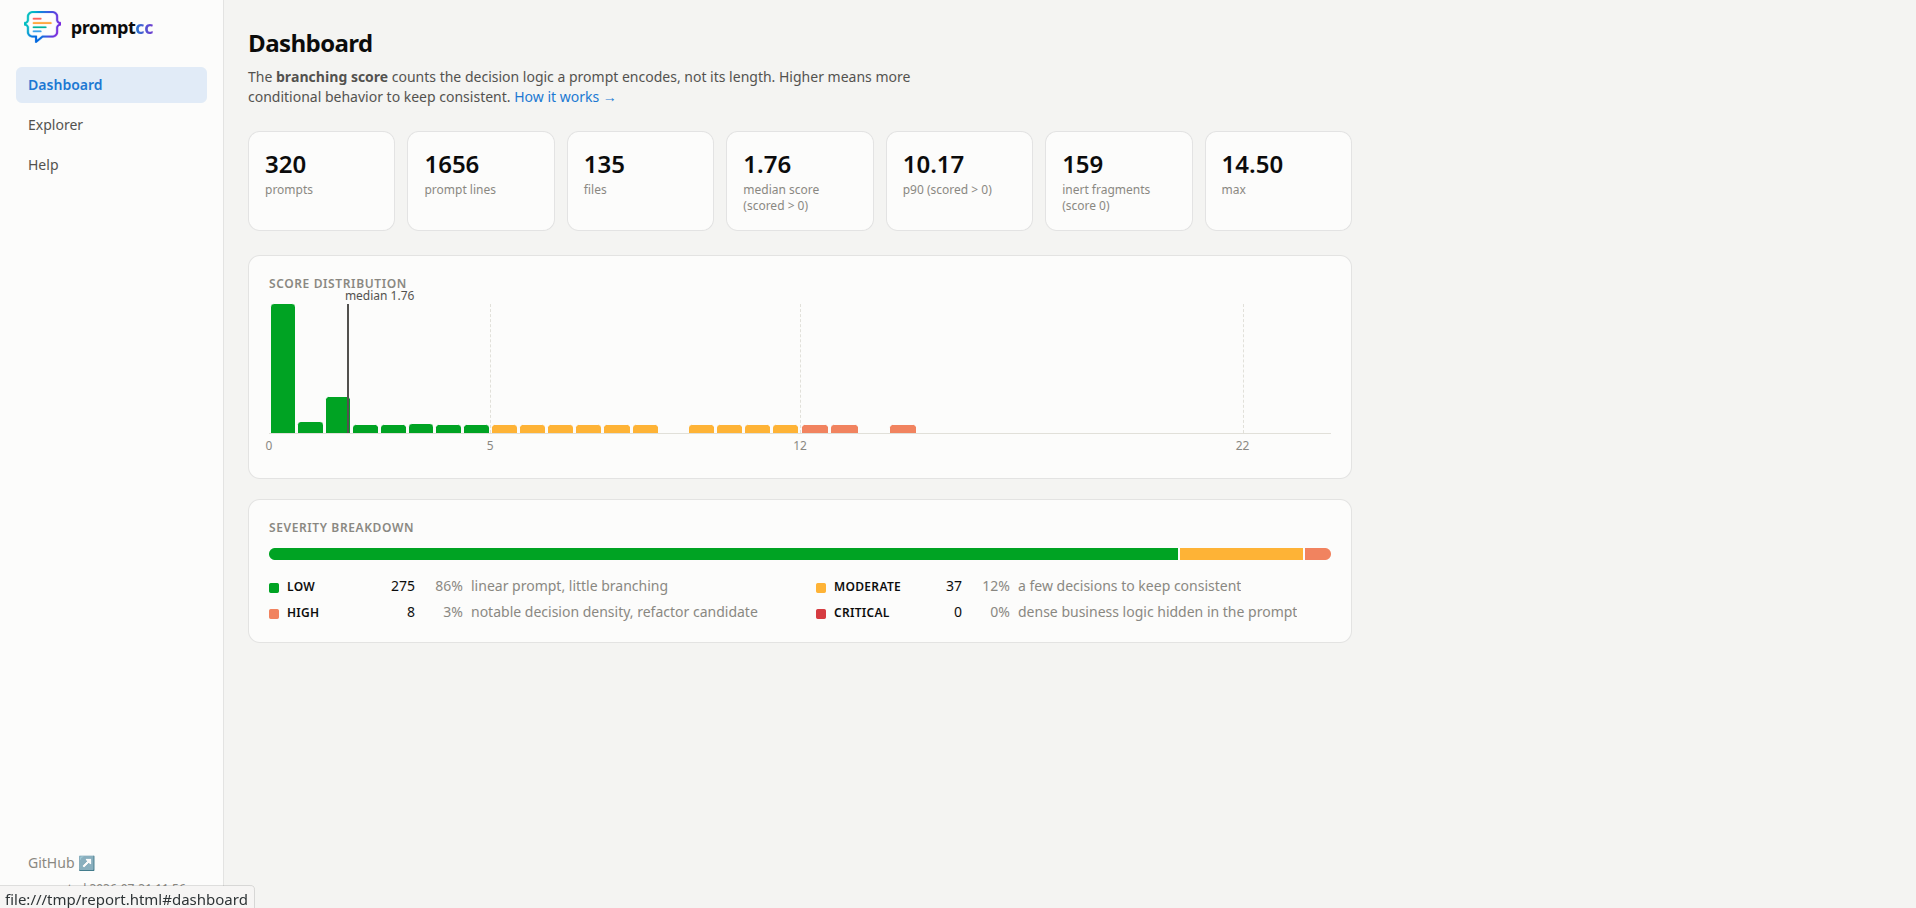
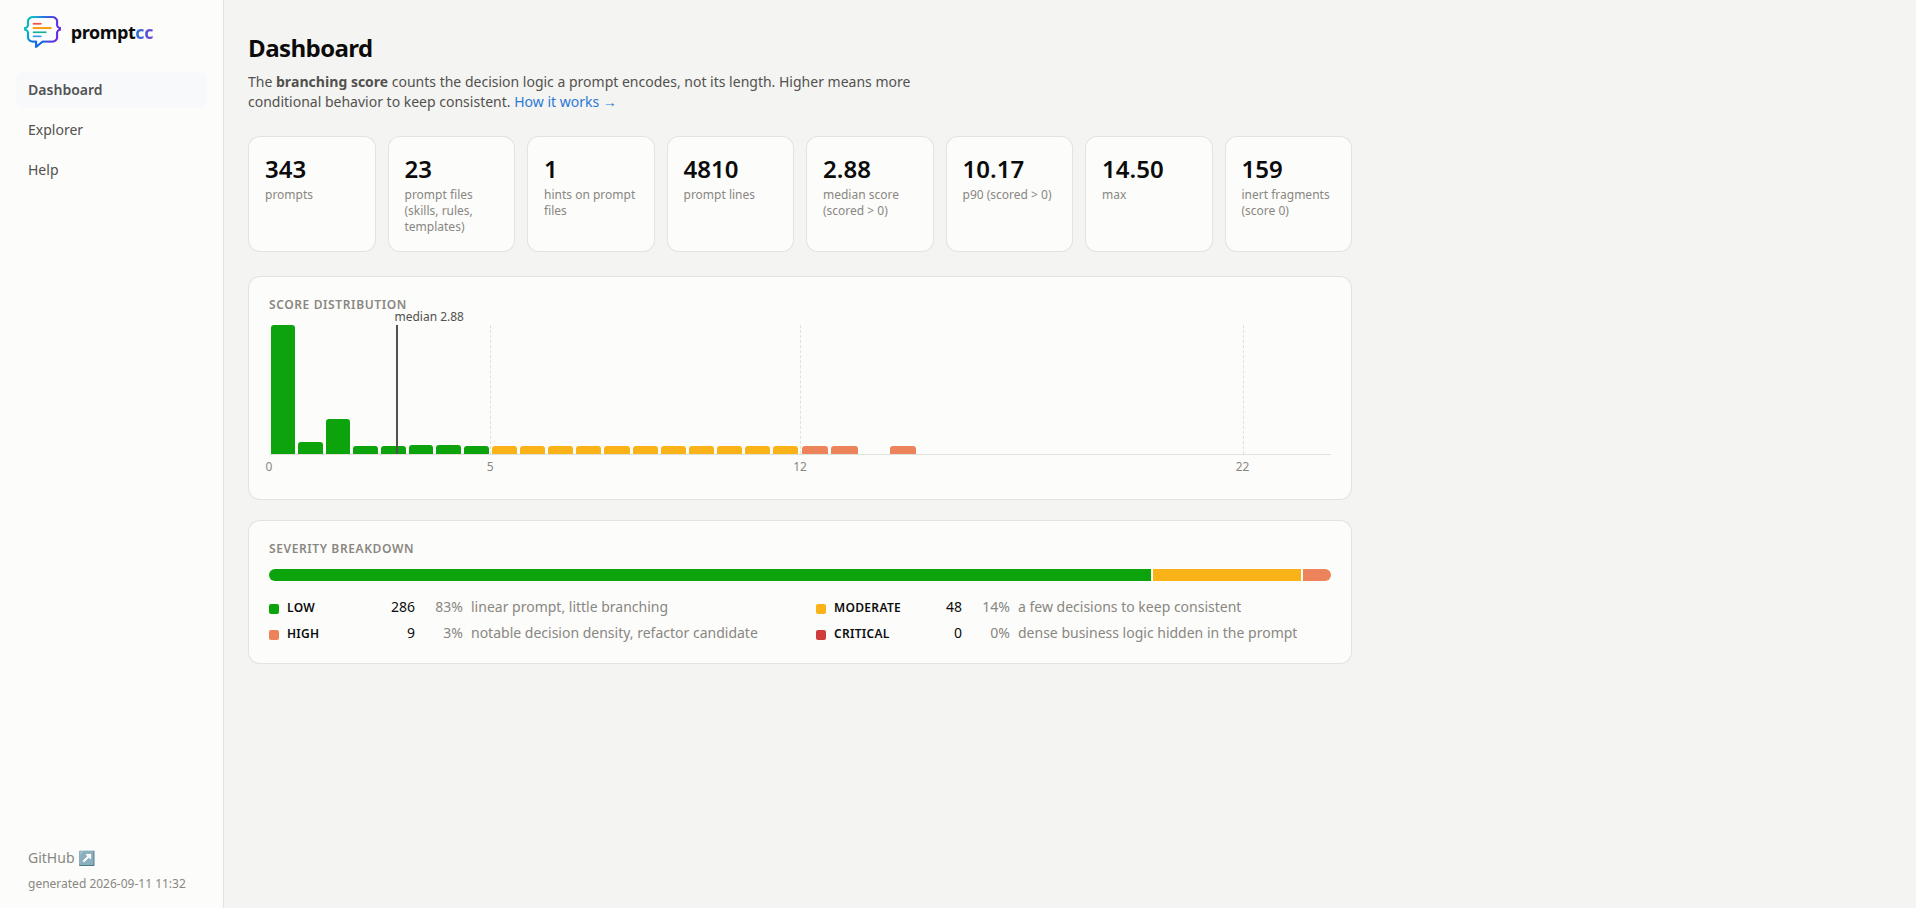
docs: rework README around agent-file audits with new screenshots

diff --git a/README.md b/README.md
@@ -11,15 +11,16 @@
   <a href="LICENSE"><img src="https://img.shields.io/badge/license-MIT-blue.svg" alt="License: MIT"></a>
   <img src="https://img.shields.io/badge/Go-1.24-00ADD8?logo=go&logoColor=white" alt="Go 1.24">
   <img src="https://img.shields.io/badge/languages-Python%20·%20TS%2FJS%20·%20PHP-6d3fd4" alt="Supported languages">
+  <img src="https://img.shields.io/badge/agent%20files-CLAUDE.md%20·%20skills%20·%20rules-6d3fd4" alt="Agent files">
   <img src="https://img.shields.io/badge/PRs-welcome-brightgreen.svg" alt="PRs welcome">
 </p>
 
 <p align="center">
-  Find the business logic hidden in your prompts, score it, and gate it in CI.
+  Your prompts, your <code>CLAUDE.md</code>, your skills: find the business logic hiding in them, score it, gate it in CI.
 </p>
 
 <p align="center">
-  <a href="https://halleck45.github.io/promptcc/#example"><b>Try it in your browser</b></a>: paste a prompt, get its score. No install, runs as WebAssembly.
+  <a href="https://halleck45.github.io/promptcc/#skill"><b>Try it in your browser</b></a>: paste a <code>CLAUDE.md</code>, a <code>SKILL.md</code> or any prompt. No install, nothing leaves your machine.
 </p>
 
 <p align="center">
@@ -28,107 +29,126 @@
 
 ---
 
-Static analysis assumes a program's behavior lives in its code. In LLM-integrated apps, half of it has moved into prompts: routing decisions, guardrails, business rules. A two-line function wrapping a fifty-line prompt shows up green in every linter while its git history screams *hotspot*.
+Linters assume a program's behavior lives in its code. Today half of it lives in prompts: routing decisions, guardrails, business rules. A two-line function wrapping a fifty-line prompt shows up green everywhere while its git history screams *hotspot*. A `CLAUDE.md` that grew to 400 lines of "if the ticket mentions X, then..." is the same thing, loaded into a model on every turn.
 
-**promptcc** measures what actually predicts prompt maintenance pain: **branching, not volume**. It counts distinct things (decision points, tool routing, injection surface, output schema depth) and reports a composite branching score, in the spirit of McCabe's cyclomatic complexity, extracted straight from your source code.
+**promptcc** measures what actually predicts maintenance pain in a prompt: **branching, not length**. It counts decision points, routing, injection surface and output schema depth, and turns them into one score, the way McCabe did for code. It reads prompts straight from your source files and from the Markdown files that drive your coding agent.
 
-> Background reading: [When code complexity lives in the prompt](https://blog.lepine.pro/en/when-code-complexity-lives-in-the-prompt/) (also available [in French](https://blog.lepine.pro/quand-la-complexite-du-code-vit-dans-le-prompt))
+> Background reading: [When code complexity lives in the prompt](https://blog.lepine.pro/en/when-code-complexity-lives-in-the-prompt/) (also [in French](https://blog.lepine.pro/quand-la-complexite-du-code-vit-dans-le-prompt))
 
-## Install
+## Get it
 
-Download a binary from the [releases page](https://github.com/halleck45/promptcc/releases), or install with Go:
+Pick whichever is closest to hand:
 
-```bash
-go install github.com/halleck45/promptcc/cmd/promptcc@latest
-```
-
-Linux and Windows release binaries are fully static (no libc dependency). Building from source needs a C compiler (the tree-sitter grammars are C code).
+| | |
+|---|---|
+| **In Claude Code** | `/plugin marketplace add halleck45/promptcc` then `/plugin install promptcc@promptcc`. Ask Claude to audit your skills; it runs promptcc and proposes the fixes. |
+| **With Node** | `npx promptcc .` (downloads the release binary on first run) |
+| **With Go** | `go install github.com/halleck45/promptcc/cmd/promptcc@latest` |
+| **Binary** | [releases page](https://github.com/halleck45/promptcc/releases), fully static on Linux and Windows |
+| **In CI** | `uses: halleck45/promptcc@main` (see [GitHub Action](#in-ci)) |
 
 ## Quick start
 
 ```bash
-# scan a codebase, print the worst offenders, and write an HTML report
-promptcc --report-html report.html ./src
-
-# gate a pull request: exit 1 if any prompt scores above 22
-promptcc --fail-over 22 ./src
+promptcc .                              # scan a repo: code prompts, CLAUDE.md, skills, agents, rules
+promptcc .claude/skills/deploy/SKILL.md # audit one skill
+promptcc --report-html report.html .    # self-contained HTML report
+promptcc --fail-over 22 .               # CI gate: fail if anything scores CRITICAL
 ```
 
-promptcc figures out what to do from what you give it: a **directory or source file** is scanned for prompts embedded in the code; **any other file, or stdin,** is analyzed as a single prompt.
+promptcc figures out what to do from what you give it. A **directory** is scanned for prompts in the code and for prompt files. A **source file** is scanned for its prompts. **Any other file, or stdin,** is analyzed as one prompt.
 
-## Usage
+## Audit your CLAUDE.md, skills and agents
 
-### Scan a codebase
+If you build with Claude Code, Cursor, Copilot, Cline, Windsurf or Codex, your prompts are Markdown files. promptcc knows where they live, reads them whole, and tells you three things the score alone cannot:
 
-Pointed at a directory or a source file, promptcc extracts prompts directly from the code (Python, TypeScript, JavaScript, PHP, parsed with tree-sitter) and analyzes each one where it lives:
+<p align="center">
+  <img src="docs/screenshot-skill.png" alt="promptcc auditing a SKILL.md: verdict by section, hotspots with advice, hints" width="820">
+</p>
 
-```bash
-promptcc ./src                        # summary + worst offenders
-promptcc --verbose ./src              # one line per prompt
-promptcc --full ./src                 # full text report per prompt
-promptcc --report-html report.html .  # self-contained HTML report
-promptcc --json ./src                 # machine-readable output
-promptcc --min-confidence high ./src  # only prompts inside known SDK calls
-promptcc --fail-over 22 ./src         # CI gate
-```
+- **Which section carries the logic, and what to do about it.** Every Markdown heading is scored on its own and the file is judged by its hottest section, not by its total: summing decisions over 700 lines would only measure length. Each HIGH section comes with a remedy that fits where it lives (move it into a skill, split it into a decision table, route first).
+- **What will silently misfire.** A skill whose description never says *when* to use it (the only trigger signal the model gets), a `SKILL.md` past the documented 500 lines, a subagent missing its `name` or `description`, a broken YAML header, the same rule copy-pasted across nested `CLAUDE.md` files.
+- **What is missing on disk.** `references/checklist.md` or `scripts/deploy.sh` mentioned in the file but absent next to it.
+
+The frontmatter is parsed, not scored: the body is what the model reads.
+
+<details>
+<summary><b>Every file promptcc picks up</b></summary>
+
+| Kind | Files |
+|---|---|
+| `rules`, loaded every session | `CLAUDE.md`, `CLAUDE.local.md`, `AGENTS.md`, `GEMINI.md`, `.cursorrules`, `.cursor/rules/*.mdc`, `.github/copilot-instructions.md`, `.github/instructions/*.instructions.md`, `.clinerules`, `.windsurfrules`, `.windsurf/rules/`, `.claude/rules/`, `.roo/rules/`, `.kiro/steering/`, `.junie/guidelines.md`, `.augment/rules/`, `.trae/rules/` |
+| `skill` | any `SKILL.md`: `.claude/skills/`, `.agents/skills/`, plugin `skills/` |
+| `agent` | `.claude/agents/**/*.md`, `.github/agents/*.agent.md`, plugin `agents/*.md` with frontmatter |
+| `command` | `.claude/commands/**/*.md`, plugin `commands/*.md` with frontmatter, `.gemini/commands/` |
+| `template` | `*.prompt`, `*.prompt.md`, anything under a `prompts/` directory, and `.md`, `.txt`, `.jinja`, `.j2`, `.hbs`... files referenced from code |
+
+Missing a convention? [Adding one is a ten-line PR.](CONTRIBUTING.md#adding-an-agent-file-convention)
+</details>
+
+## Scan a codebase
+
+Pointed at a directory, promptcc extracts prompts directly from Python, TypeScript, JavaScript and PHP (parsed with tree-sitter, so f-strings, template literals and heredocs are decoded and their interpolations counted as injection surface). Prompts that moved to their own file, `prompts/system.md` or a Jinja template opened from code, are picked up too.
 
 <p align="center">
   <img src="docs/screenshot-cli.png" alt="promptcc terminal output: worst offenders" width="820">
 </p>
 
-### Analyze a single prompt
+```bash
+promptcc --verbose ./src              # one line per prompt, with hints
+promptcc --full ./src                 # full text report per prompt
+promptcc --json ./src                 # machine-readable output
+promptcc --min-confidence high ./src  # only prompts inside known SDK calls
+```
 
-No install needed for this one: the [web playground](https://halleck45.github.io/promptcc/) runs the same analyzer as WebAssembly, entirely client-side. Or from the CLI:
+Every string carries a **confidence**: `high` when passed to a known LLM SDK (Anthropic, OpenAI, Google, LangChain, Vercel AI SDK, Bedrock, Ollama), `medium` when bound to a prompt-like name, `low` when it just reads like instructions. Agent files are `high` by construction.
+
+## In CI
+
+The GitHub Action installs the release binary, scans, writes the summary to the job page, uploads the HTML report as an artifact, and fails the job above the threshold you choose:
+
+```yaml
+- uses: actions/checkout@v4
+- uses: halleck45/promptcc@main
+  with:
+    path: .
+    fail-over: "22"
+```
+
+Prefer a commit hook? promptcc ships a [pre-commit](https://pre-commit.com) hook:
+
+```yaml
+repos:
+  - repo: https://github.com/halleck45/promptcc
+    rev: v0.0.2
+    hooks:
+      - id: promptcc
+        args: [--fail-over, "22"]
+```
+
+## Analyze a single prompt
+
+The [web playground](https://halleck45.github.io/promptcc/) runs the same analyzer as WebAssembly, entirely client-side, and hands you a badge for your README. Or from the CLI:
 
 ```bash
 promptcc prompt.txt              # analyze a prompt file
 cat prompt.txt | promptcc        # or pipe it in
 promptcc a.txt b.txt             # compare several prompts
-promptcc --json prompt.txt       # machine-readable output
-```
-
-```
-── prompt.txt ──────────────────────────────
-  Branching score: 10.89  [MODERATE]  a few decisions to keep consistent
-
-  What matters (distinct things):
-    decision points          n_decisions   = 3
-    decision density         p_dec_ratio   = 0.429
-    routing / escalation     n_tool_routes = 2
-    injection channels       inject_surf   = 1  (1 slots)
-    output schema depth      output_depth  = 1
-    explicit guardrails      n_constraints = 3  (more guardrails, easier maintenance)
-    role definitions         n_roles       = 1
-
-  Volume (control group, predicts nothing):
-    60 words · 378 chars · 7 instruction units (lines)
 ```
 
 ## The HTML report
 
-`--report-html` writes a single, self-contained HTML file (no external assets) with three views:
+`--report-html` writes one self-contained file, no external assets:
 
-- **Dashboard**: score distribution, severity breakdown and headline stats across all prompts.
-- **Explorer**: every prompt sorted worst-first, each expanding to its per-signal breakdown and decoded source text. Low-confidence hits are hidden behind a toggle.
-- **Help**: the scoring model and how to read the report.
+- **Dashboard**: score distribution, severity breakdown, headline stats.
+- **Explorer**: every prompt worst-first, each expanding to its verdict basis, hints, hotspot sections with advice, signal breakdown and decoded text.
+- **Help**: the scoring model, in plain words.
 
 <p align="center">
-  <img src="docs/screenshot-explorer.png" alt="promptcc HTML report explorer" width="900">
+  <img src="docs/screenshot-explorer.png" alt="promptcc HTML report explorer, a skill expanded" width="900">
 </p>
 
-## How it works
-
-### Confidence
-
-Every reported string carries a confidence level, so you can tune the signal-to-noise ratio with `--min-confidence`:
-
-- **high**: passed to a known LLM SDK call (Anthropic, OpenAI, Google, LangChain, Vercel AI SDK, Bedrock, Ollama)
-- **medium**: bound to a prompt-like name (`system_prompt = ...`, `system:`, `'instructions' =>`)
-- **low**: a long natural-language literal with no other evidence
-
-Interpolations (f-strings, template literals, PHP `$variables`, heredocs) are decoded and counted as injection surface, exactly what a grep-based approach cannot see. Values under keys like `model`, `role` or `url` are never mistaken for prompts.
-
-### Metrics
+## How the score works
 
 | Metric | What it counts | Signal |
 |---|---|---|
@@ -137,15 +157,9 @@ Interpolations (f-strings, template literals, PHP `$variables`, heredocs) are de
 | `n_tool_routes` | routing, delegation and escalation points | positive |
 | `inject_surf` | distinct channels through which code injects values (`{name}`, `{{name}}`, `$var`, `[[name]]`, `%(name)s`, `<placeholder>`) | positive |
 | `output_depth` | nesting depth of the requested output schema | mild positive |
-| `n_constraints` | explicit guardrails ("never", "always", "ne ... jamais", ...) | **negative** (explicit limits make prompts easier to maintain) |
+| `n_constraints` | explicit guardrails ("never", "always", "ne ... jamais", ...) | **negative**: explicit limits make prompts easier to maintain |
 | `n_roles` | role and persona definitions | informational |
 | `n_words`, `n_chars`, `n_instructions` | volume | none, kept as a control group |
-
-The metric set and the direction of each signal come from [Rethinking Complexity Metrics for LLM-Integrated Applications: Beyond Source Code](https://arxiv.org/abs/2607.01903) (Xu, Li, Deng, Liu, Xing; 2026), which correlates candidate metrics with maintenance effort across open-source LLM-integrated applications: decision density and injection surface predict maintenance pain, prompt length predicts nothing, and explicit guardrails correlate negatively.
-
-Matching is word-token based and Unicode-aware. English and French are built in; paired XML tags (`<context>...</context>`) are recognized as structure, not injection slots.
-
-### The branching score
 
 ```
 raw    = 1.0 * n_decisions + 10.0 * p_dec_ratio + 1.5 * n_tool_routes
@@ -154,23 +168,26 @@ relief = min(0.3 * n_constraints, 0.4 * raw)
 score  = raw - relief
 ```
 
-Bands: `LOW` (< 5), `MODERATE` (< 12), `HIGH` (< 22), `CRITICAL` (>= 22).
+Bands: `LOW` (< 5), `MODERATE` (< 12), `HIGH` (< 22), `CRITICAL` (>= 22). A prompt with Markdown sections is judged by its hottest section of at least three instructions; the whole-text metrics are reported alongside.
 
-The weights are an honest v0 heuristic: the relative ordering follows the [published correlations](https://arxiv.org/abs/2607.01903) for LLM-integrated applications (decision density dominates, prompt length predicts nothing, explicit guardrails correlate negatively with maintenance pain), but the absolute values are a judgment call. Calibrating them against a labeled corpus is on the roadmap.
+The metric set and the direction of each signal come from [Rethinking Complexity Metrics for LLM-Integrated Applications](https://arxiv.org/abs/2607.01903) (Xu, Li, Deng, Liu, Xing; 2026), which correlates candidate metrics with maintenance effort across open-source LLM apps: decision density and injection surface predict pain, length predicts nothing, explicit guardrails help. The weights are an honest v0 heuristic; calibrating them against a labeled corpus is on the roadmap.
+
+Matching is word-token based and Unicode-aware. English and French are built in, and adding a language is a list of words.
 
 ## Roadmap
 
-- [x] Extract prompts directly from source code (Python, TypeScript, JavaScript, PHP) via tree-sitter, so the tool works as a linter on repositories rather than on isolated text files
-- [ ] Prompt template files (.txt, .md, Jinja, Blade) referenced from code
+- [x] Prompts extracted from source code (Python, TypeScript, JavaScript, PHP)
+- [x] Prompt template files (`.prompt`, `prompts/`, templates referenced from code)
+- [x] Agent files (CLAUDE.md, AGENTS.md, skills, subagents, commands, Cursor and Copilot rules) judged by section, with hints and advice
+- [x] Claude Code plugin, GitHub Action, pre-commit hook, npm launcher
+- [ ] More hints: contradictory guardrails, overlapping skills
 - [ ] More grammars (Go, Java, Ruby)
 - [ ] SARIF output for GitHub code scanning
-- [ ] pre-commit hook and GitHub Action
 - [ ] Score calibration against a labeled corpus
-- [ ] More languages in the lexicons (contributions welcome, see below)
 
 ## Contributing
 
-Contributions are welcome, and adding a language to the lexicons is a great first PR. See [CONTRIBUTING.md](CONTRIBUTING.md) for the development workflow, the lexicon format, and the real-world evaluation harness.
+Adding a language to the lexicons or a new agent-file convention is a great first PR. See [CONTRIBUTING.md](CONTRIBUTING.md) for the workflow, the real-world evaluation harness and the release checklist.
 
 ## License
 

diff --git a/CONTRIBUTING.md b/CONTRIBUTING.md
@@ -35,6 +35,22 @@ Rules:
 - Prefer precise multi-word phrases over broad single words: overly generic entries create false positives (this is why "assistant" and "expert" are not role markers).
 - Add a test in `internal/analyzer/analyzer_test.go` with a realistic prompt in your language, asserting the expected counts.
 
+## Adding an agent-file convention
+
+AI coding assistants keep their instructions in conventional locations (`.cursor/rules/*.mdc`, `.clinerules/`, ...). They are recognized in `internal/promptfile/promptfile.go`, in `Detect`, by path alone: add a case, give it a kind (`rules`, `skill`, `agent`, `command`) and a short label, and add the path to the table in `promptfile_test.go`. Keep upper-case file names (`CLAUDE.md`) case-sensitive: a `docs/claude.md` is documentation about the tool, not for it.
+
+Lint hints live in `internal/promptfile/hints.go`. A hint must be actionable and grounded in documented behavior (a documented size limit, a required field), not taste.
+
+## Release checklist
+
+Tagging `vX.Y.Z` builds the binaries (goreleaser). Three files pin that version and must move with it in the same commit:
+
+- `npm/package.json`: `version` (the launcher downloads `vX.Y.Z` assets; publish with `cd npm && npm publish`)
+- `plugin/.claude-plugin/plugin.json` and `.claude-plugin/marketplace.json`: `version`
+- `README.md`: the `rev:` in the pre-commit example
+
+The GitHub Action (`action.yml`) downloads `latest` by default, so it needs no change.
+
 ## Reporting issues
 
 A minimal prompt reproducing the miscount plus the expected numbers is the perfect bug report.
